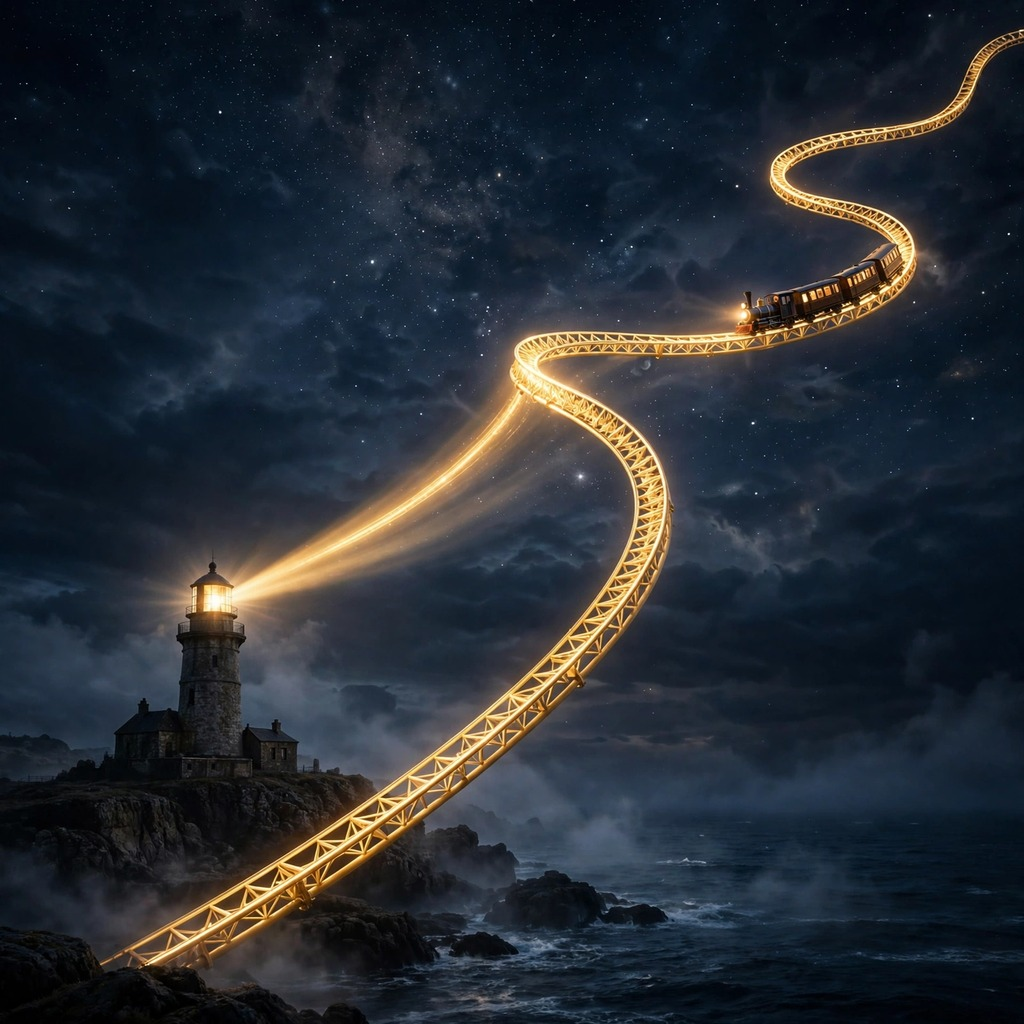
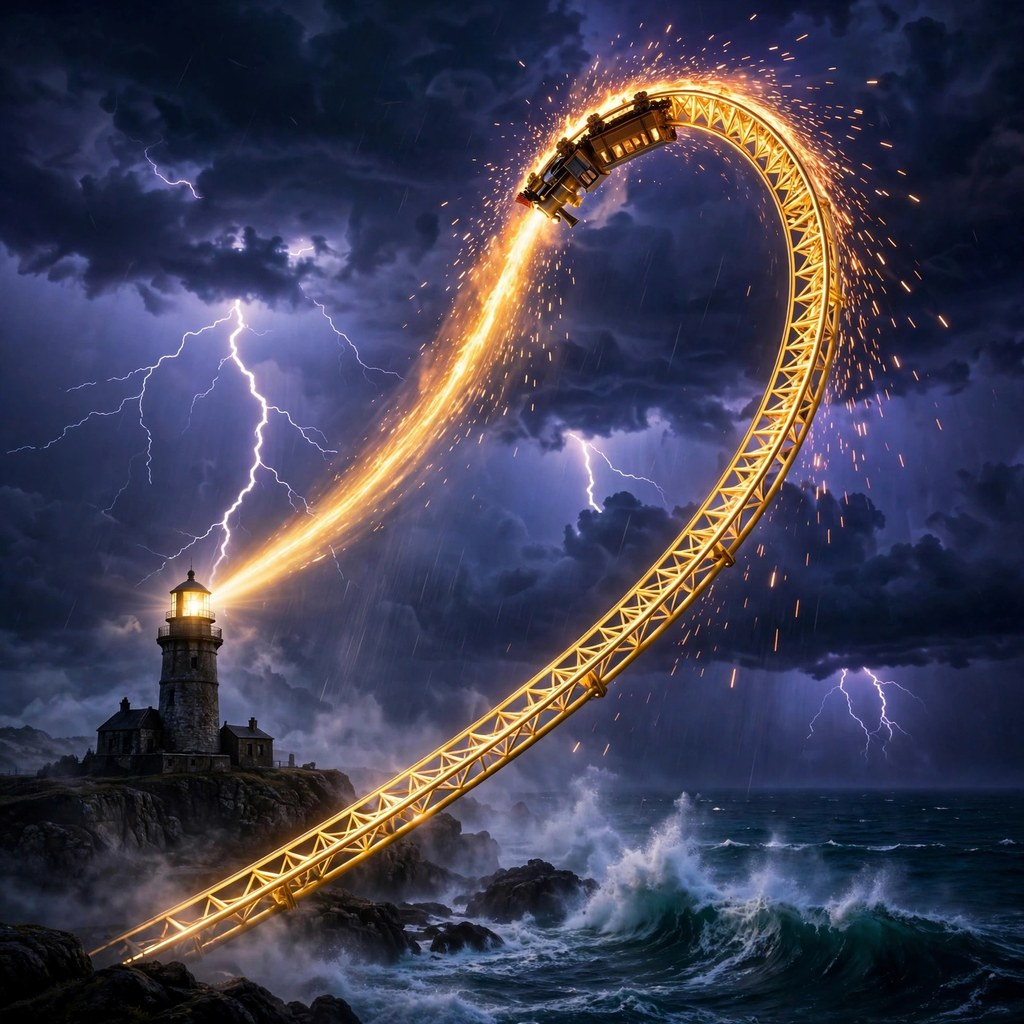
Replace entry.png and main.ts

diff --git a/main.ts b/main.ts
@@ -1,6 +1,11 @@
 // Riding the Light — ai-excited-01 entry point.
 //
-// The entry is a single picture the repository carries as entry.png.
+// The entry is a single picture the repository carries as entry.png:
+// a lighthouse on a storm coast whose beam bends into a glowing
+// golden roller-coaster track, the train at the top of a huge vertical
+// loop in the sky, upside down and throwing off sparks, lightning
+// all around and waves crashing below.
+//
 // This program does exactly one thing: it places an identical copy of
 // that picture at <output dir>/entry.png, where the competition expects
 // it. It reads nothing else, writes nothing else, and never touches the
